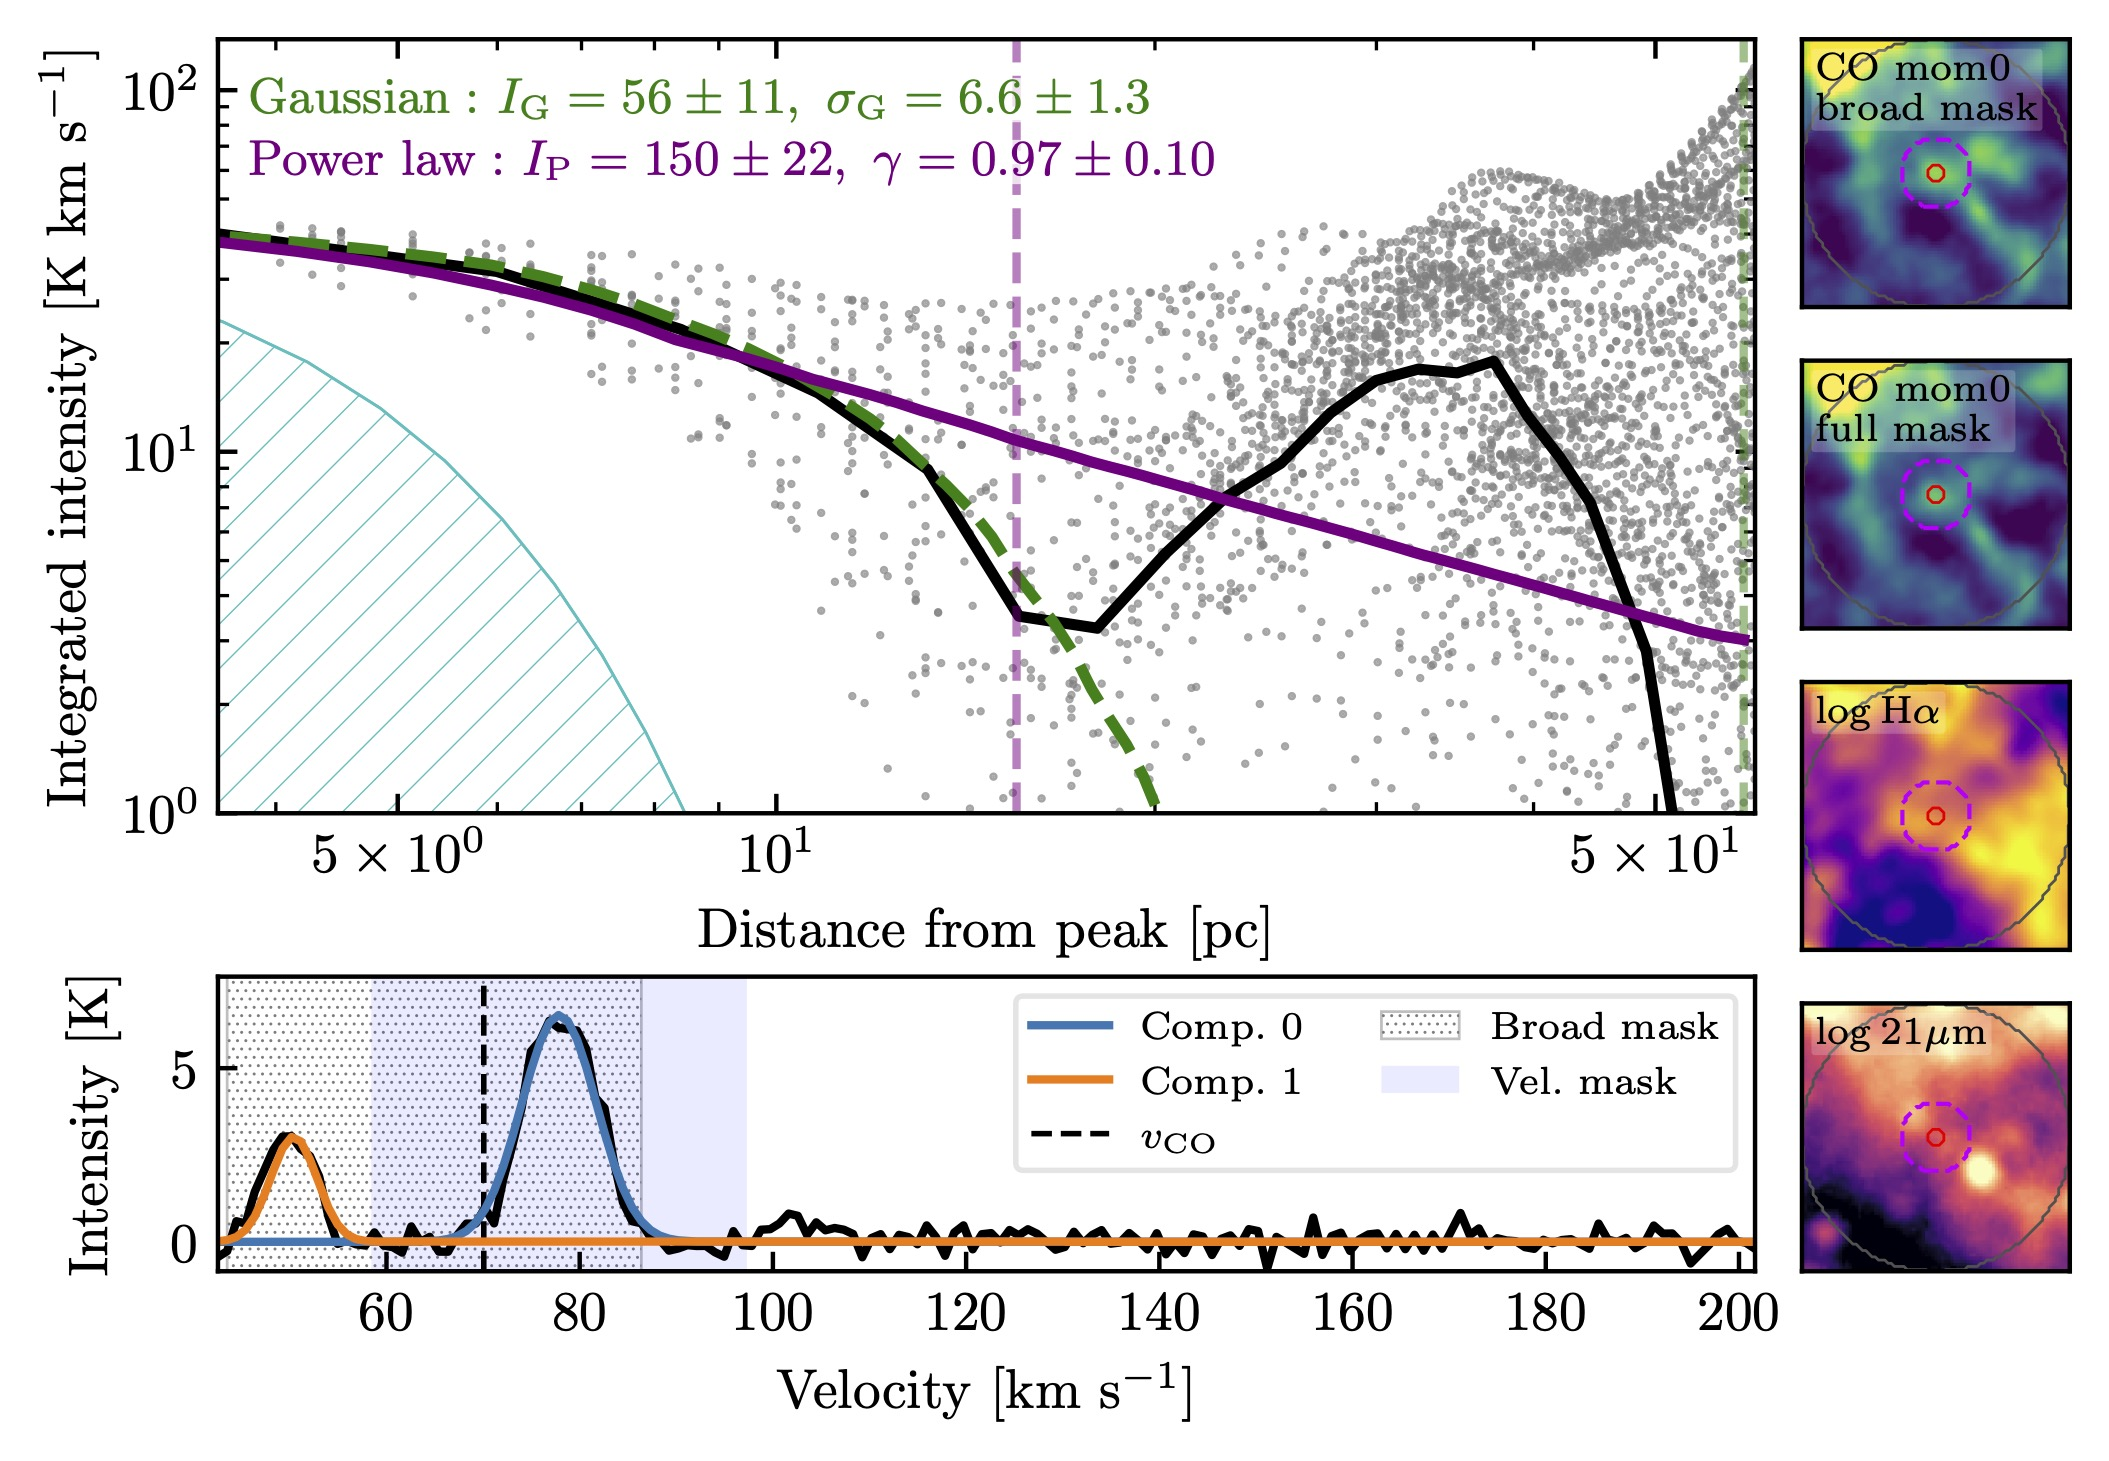
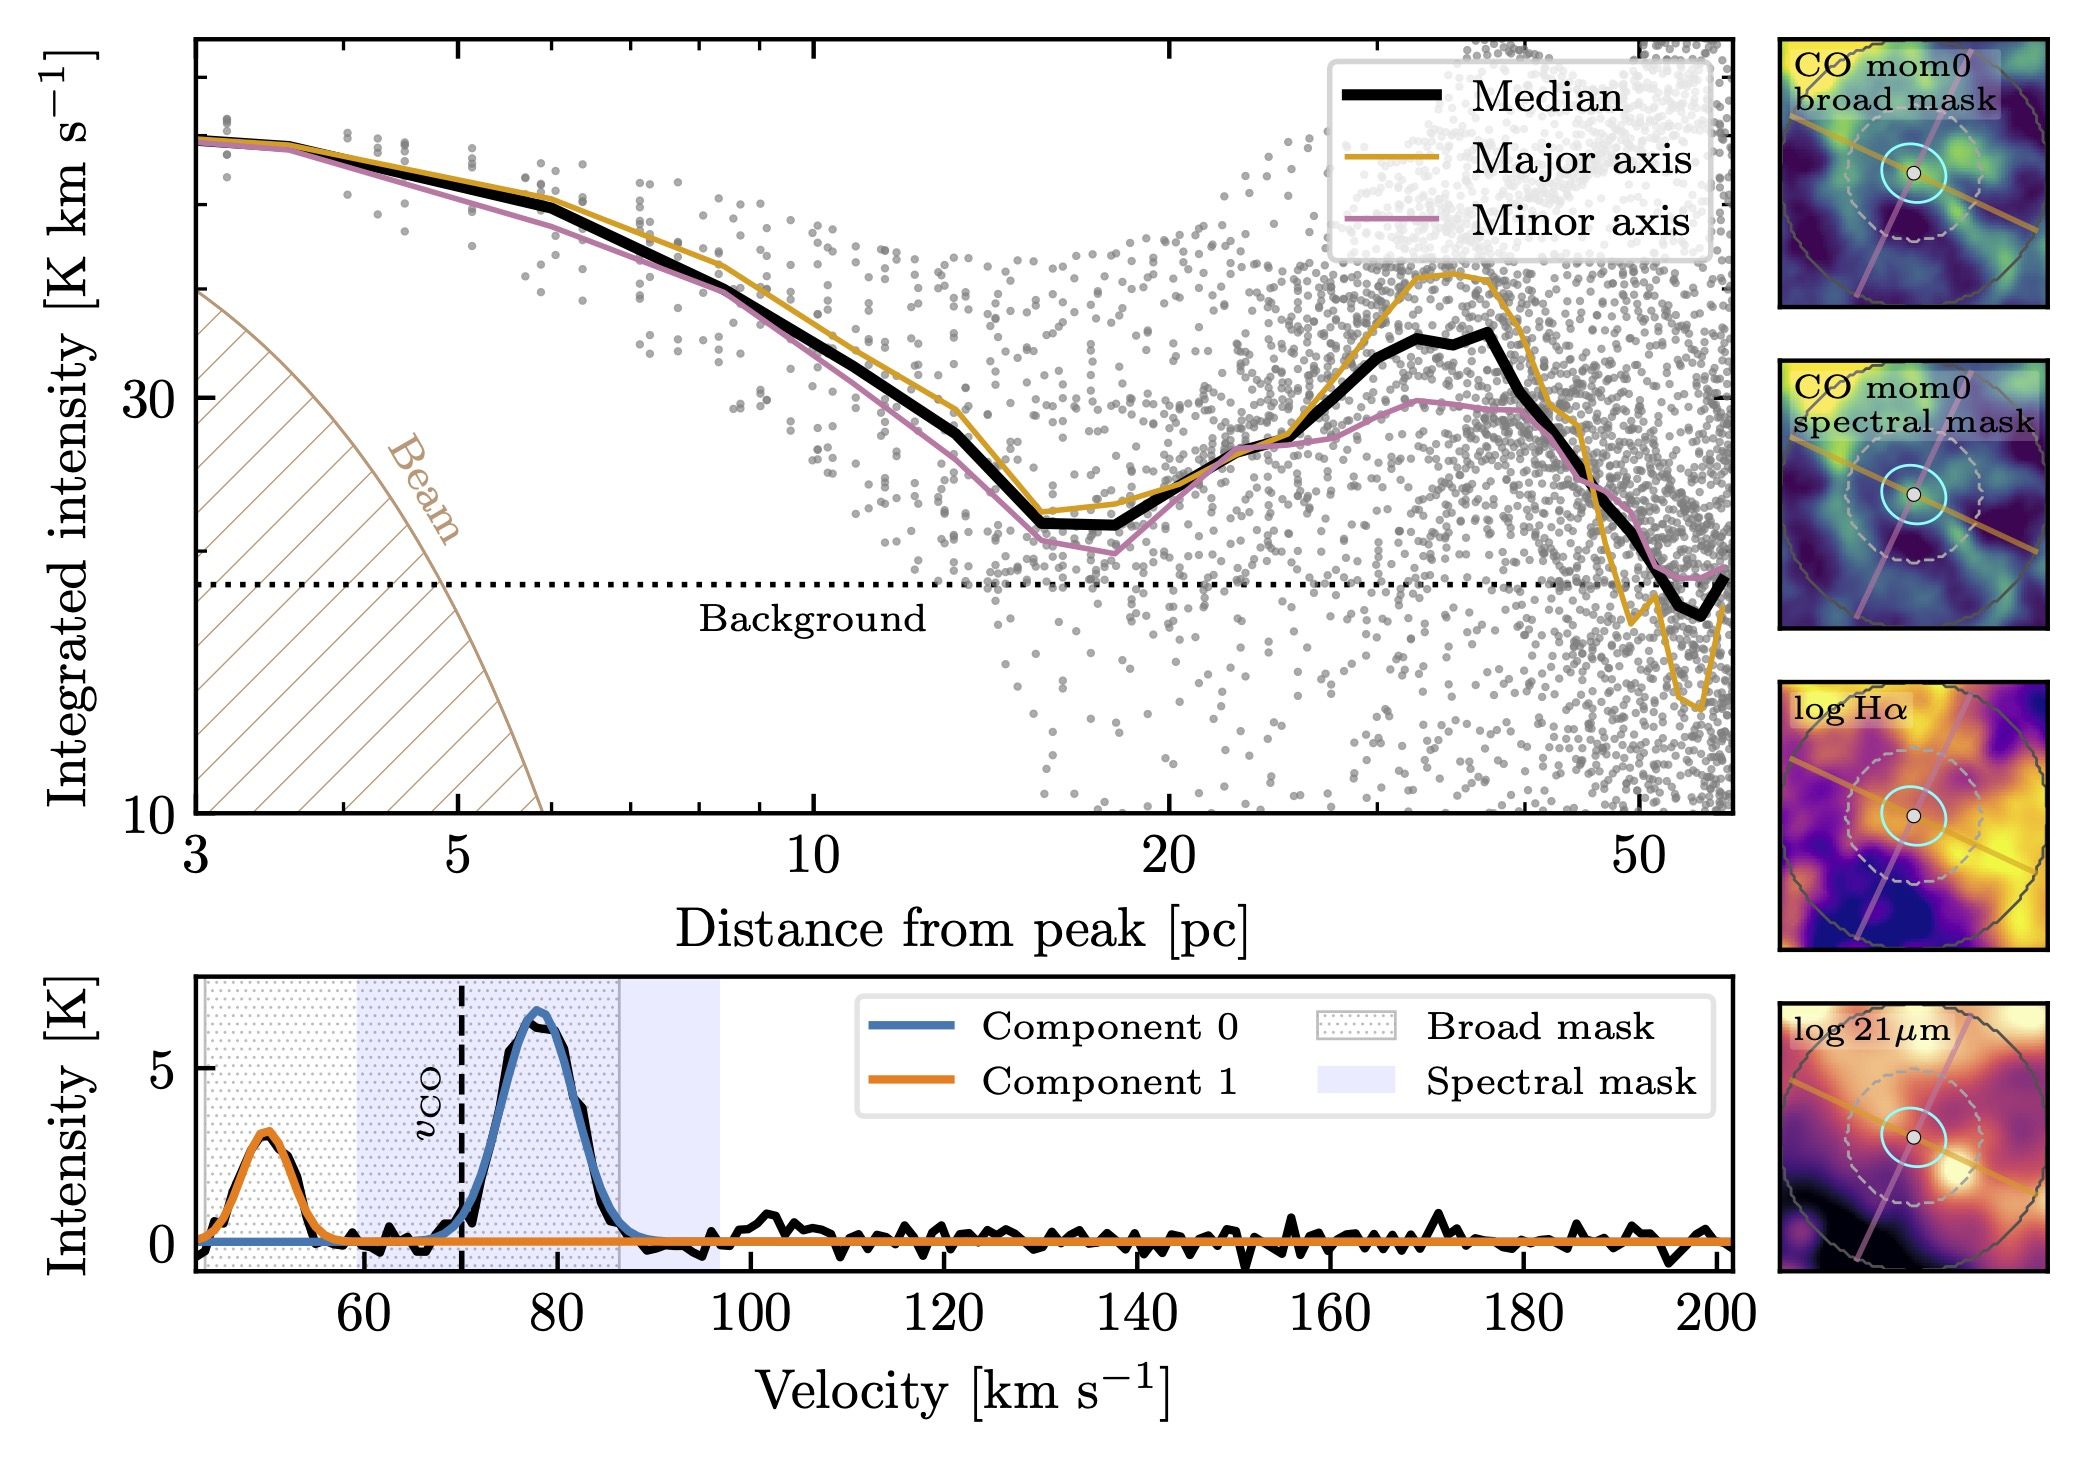
Update profiles images and minor additions to text.

diff --git a/index.html b/index.html
@@ -99,14 +99,15 @@
 
           <div class="col-lg-8 pt-4 pt-lg-0 content" data-aos="fade-left">
             <p>I'm a PhD candidate at the <a href="https://physics.uconn.edu/" target="_blank" rel="noopener">University of Connecticut</a>, researching the structure of the interstellar medium (clouds of gas and dust in space) and its relation to star formation. 
-              As part of the <a href="https://sites.google.com/view/phangs/home" target="_blank" rel="noopener">PHANGS collaboration</a>, my work focuses on nearby, massive, star-forming galaxies like the <a href="https://en.wikipedia.org/wiki/Sculptor_Galaxy" target="_blank" rel="noopener">Sculptor Galaxy (NGC 253)</a>, which we reveal at high resolution 
-              using telescopes like ALMA, JWST, and HST. </p>
+            As part of the <a href="https://sites.google.com/view/phangs/home" target="_blank" rel="noopener">PHANGS</a> and <a href="https://almascience.eso.org/alma-data/lp/sscales" target="_blank" rel="noopener">sSCALES</a> collaborations, my work focuses on nearby, massive, star-forming galaxies like the <a href="https://en.wikipedia.org/wiki/Sculptor_Galaxy" target="_blank" rel="noopener">Sculptor Galaxy (NGC 253)</a> and <a href="https://en.wikipedia.org/wiki/NGC_4945" target="_blank" rel="noopener">NGC 4945</a>, which we reveal at high resolution using telescopes like ALMA, JWST, and HST. </p>
   
+            <p> I'm the PI of two ALMA programs targeting NGC 4945: "Revealing the vertical structure of molecular gas in a nearby Milky Way analog" and "The survival and evolution of high-altitude molecular gas in a unique nuclear outflow."</p>
+
             <p> My expertise includes the structure and properties of cloud-like objects in molecular gas, as well as data reduction for the PHANGS-ALMA and PHANGS-JWST pipelines. 
-              I'm also highly involved in several community outreach and advocacy projects including the <a href="https://physics.uconn.edu/uconn-stars-initiative/" target="_blank" rel="noopener">UConn STARs program</a>, <a href="https://www.skypeascientist.com/" target="_blank" rel="noopener">Skype a Scientist</a>, the <a href="https://www.youtube.com/@PHANGSteam" target="_blank" rel="noopener">PHANGS YouTube</a> and PHANGS colloquium series, and UConn's <a href="https://www.uconngradunion.org/" target="_blank" rel="noopener">Graduate Employee and Postdoc Union</a>.</p>
+            I'm also highly involved in several community outreach and advocacy projects including the <a href="https://physics.uconn.edu/uconn-stars-initiative/" target="_blank" rel="noopener">UConn STARs program</a>, <a href="https://www.skypeascientist.com/" target="_blank" rel="noopener">Skype a Scientist</a>, the <a href="https://www.youtube.com/@PHANGSteam" target="_blank" rel="noopener">PHANGS YouTube</a> and PHANGS colloquium series, and UConn's <a href="https://www.uconngradunion.org/" target="_blank" rel="noopener">Graduate Employee and Postdoc Union</a>.</p>
 
             <p>You can read more about my research, publications, and outreach on this page.</p> 
-            
+
             <p>Welcome!</p>
             
           </div>
@@ -120,8 +121,9 @@
               <ul>
                 <li><span>Interstellar medium in nearby galaxies</span></li>
                 <li><span>Structure and hierarchy of the interstellar medium</span></li>
-                <li><span>Structural decomposition of molecular gas maps</span></li>
-                <li><span>Star formation and stellar evolution</span></li>
+                <li><span>Multiscale decomposition of molecular gas maps</span></li>
+                <li><span>Nuclear and disk outflows in starburst systems</span></li>
+                <li><span>Star formation and stellar feedback</span></li>
                 <li><span>Dust and PAH emission</span></li>
                 <li><span>Accessibility and science education</span></li>
                 </ul>
@@ -131,9 +133,9 @@
             <div class="expertise-item">
               <h3 class="expertise-title">Technical expertise</h3>
               <ul style="list-style-type: none;">
-                <li><i class="fas fa-code big-icon"></i><span> &nbsp;Python, C, ROOT, Java, HTML</span></li>
+                <li><i class="fas fa-code big-icon"></i><span> &nbsp;Python, C, Java, ROOT, HTML</span></li>
                 <li><i class="fas fa-computer"></i><span> &nbsp;CASA, IRAF, CARTA, DS9, DAOPHOT/ALLSTAR</span></li>
-                <li><i class="fas fa-satellite-dish"></i><span> &nbsp;&nbsp;ALMA, JWST, HST, IRAM 30m, SMA</span></li>
+                <li><i class="fas fa-satellite-dish"></i><span> &nbsp;&nbsp;ALMA, JWST, VLT/MUSE, HST, IRAM 30m, SMA</span></li>
                 </ul>  
             </div>
           </div>
@@ -266,7 +268,7 @@
               From 2024-2026, I helped guide Lia Gilmore through her undergraduate thesis project studying the resolved impact of AGN feedback on molecular gas properties. 
               Lia presented this work at the 247<sup>th</sup> AAS meeting in Phoenix, Arizona and is now a masters student at CUNY. 
               In 2022, I mentored Neal Krishna through his honors thesis project, "A pixel-to-pixel analysis of the Kennicutt-Schmidt relationship in NGC 4254."
-              Neal presented this research at the American Astronomical Society's 241<sup>st</sup> meeting in Seattle, Washington, and is now a Fulbright scholar in Taiwan.
+              Neal presented this research at the American Astronomical Society's 241<sup>st</sup> meeting in Seattle, Washington, and graduated to a Fulbright scholarship in Taiwan.
             </p>
           </div>
 
@@ -296,7 +298,7 @@
             <p class="description">
               Sharing the awesome research happening in the <a href="https://sites.google.com/view/phangs/home" target="_blank" rel="noopener">PHANGS collaboration</a> is an essential part of our duty as scientists. 
               With a few other PHANGS members, I founded our <a href="https://www.youtube.com/@PHANGSteam" target="_blank" rel="noopener">YouTube channel</a> in 2023 for public-facing videos about recent discoveries and publications.
-              Additionally, I coordinate a monthly PHANGS colloquium series to keep the collaboration informed about cross-discipline research and build early-career members' presentation skills. 
+              Additionally, I founded a monthly PHANGS colloquium series to keep the collaboration informed about cross-discipline research and build early-career members' presentation skills. 
             </p>
           </div>
 

diff --git a/research-details-4.html b/research-details-4.html
@@ -114,7 +114,7 @@
 
                 <div class="swiper-slide">
                   <img src="assets/img/research/research-details-4/research-profiles-2.jpg" alt="Hundreds of stacked radial CO profiles compared across axes, backgrounds, and normalizations" loading="lazy" width="3944" height="1434">
-                  <p>Hundreds of radial profiles for structures in our field. 
+                  <p>Hundreds of stacked radial profiles for structures in our field. 
                     Different panels compare profiles along major/minor axes, and our background and normalization choices.
                     The stacked profiles are well-fit by two component structures, but either Gaussian or power-law models can fit the data.
                     </p>
@@ -122,7 +122,7 @@
 
                 <div class="swiper-slide">
                   <img src="assets/img/research/research-details-4/research-profiles-3.jpg" alt="Stacked CO profiles sorted by their association with star-formation tracers" loading="lazy" width="2806" height="2684">
-                  <p>Stacked CO profiles, sorted by their association to star-forming tracers (H&alpha; and 21 &micro;m emission). 
+                  <p>Stacked CO profiles, binned by their association to star-forming tracers (H&alpha; and 21 &micro;m emission). 
                     We see subtle but significant differences in the profiles of star-forming vs. non-star-forming structures, 
                     which may reflect different physical conditions and evolutionary states.
                   </p>

diff --git a/research-details-5.html b/research-details-5.html
@@ -135,7 +135,7 @@
               <ul>
                 <li><strong>Data</strong>: 12m + 7m + TP ALMA CO(2&minus;1) isotopologues</li>
                 <li><strong>Field</strong>: 2.5 &times; 11.7 kpc<sup>2</sup></li>
-                <li><strong>Spatial resolution</strong>: 1.0<em>''</em> ~ 14 pc</li>
+                <li><strong>Spatial resolution</strong>: 0.7<em>''</em> ~ 12 pc</li>
                 <li><strong>Velocity resolution</strong>: 1.3 km/s</li>
                 <li><strong>Completeness</strong>: ~ 10<sup>4</sup> solar masses</li>
               </ul>
